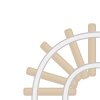
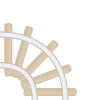
#90-Server-Client: Switch in Editor

Changed region(s): [[0.0, 0.21, 1.0, 0.96], [0.72, 0.93, 0.78, 0.96]]

diff --git a/RoRClient/Views/Editor/RailEditorUserControl.xaml b/RoRClient/Views/Editor/RailEditorUserControl.xaml
@@ -18,7 +18,15 @@
             Height="{Binding SquareDim, ElementName=railUserControl}">
         <Image Width="{Binding SquareDim, ElementName=railUserControl}" 
                Height="{Binding SquareDim, ElementName=railUserControl}" 
-               Source="{Binding Rail.RailSections, Mode=OneWay, Converter={StaticResource RailSectionsToImagePathConverter}, ConverterParameter=1}">
+               Source="{Binding Rail.RailSections, Mode=OneWay, Converter={StaticResource RailSectionsToImagePathConverter}, ConverterParameter=inactive}">
+            <Image.InputBindings>
+                <MouseBinding MouseAction="LeftClick" Command="{Binding CreatePlaceableOnRailCommand}"/>
+                <MouseBinding MouseAction="RightClick" Command="{Binding SelectInteractiveGameObjectCommand}"/>
+            </Image.InputBindings>
+        </Image>
+        <Image Width="{Binding SquareDim, ElementName=railUserControl}" 
+               Height="{Binding SquareDim, ElementName=railUserControl}" 
+               Source="{Binding Rail.RailSections, Mode=OneWay, Converter={StaticResource RailSectionsToImagePathConverter}, ConverterParameter=active}">
             <Image.InputBindings>
                 <MouseBinding MouseAction="LeftClick" Command="{Binding CreatePlaceableOnRailCommand}"/>
                 <MouseBinding MouseAction="RightClick" Command="{Binding SelectInteractiveGameObjectCommand}"/>

diff --git a/RoRClient/Views/Editor/Helper/ToolConverter.cs b/RoRClient/Views/Editor/Helper/ToolConverter.cs
@@ -54,8 +54,9 @@ namespace RoRClient.Views.Editor.Helper
         }
 
         /// <summary>
-        /// Erzeugt aus einem definierten Namen zwei Railsection mit jeweils zwei RailSectionPositions.  
-        /// Node1 ist jeweils mit node2 und node3 verknüpft und bildet so die Weiche
+        /// Erzeugt aus einem definierten Namen zwei Railsections mit jeweils zwei RailSectionPositions.  
+        /// Der sich wiederholende Node( node1, node3) bildet den Knotenpunkt beider Railsections und somit die Weiche.
+        /// Node1 und Node2 bilden die aktive Railsection der Weiche.
         /// </summary>
         /// <param name="toolName">Name des selectedTool</param>
         /// <returns>Railsection</returns>
@@ -64,6 +65,8 @@ namespace RoRClient.Views.Editor.Helper
             Compass node1;
             Compass node2;
             Compass node3;
+            Compass node4;
+
             List <RailSection> railSections = new List<RailSection>();
 
             switch (toolName)
@@ -71,27 +74,31 @@ namespace RoRClient.Views.Editor.Helper
                 case "switch_se_sn":
                     node1 = Compass.SOUTH;
                     node2 = Compass.NORTH;
-                    node3 = Compass.EAST;
+                    node3 = Compass.SOUTH;
+                    node4 = Compass.EAST;
                     break;
                 case "switch_sn_sw":
                     node1 = Compass.SOUTH;
                     node2 = Compass.NORTH;
-                    node3 = Compass.WEST;
+                    node3 = Compass.SOUTH;
+                    node4 = Compass.WEST;
                     break;
                 case "switch_se_sw":
                     node1 = Compass.SOUTH;
-                    node2 = Compass.EAST;
-                    node3 = Compass.WEST;
+                    node2 = Compass.WEST;
+                    node3 = Compass.SOUTH;
+                    node4 = Compass.EAST;
                     break;
                 default:
                     node1 = new Compass();
                     node2 = new Compass();
                     node3 = new Compass();
+                    node4 = new Compass();
                     break;
             }
 
             railSections.Add(new RailSection(Guid.NewGuid(), node1, node2));
-            railSections.Add(new RailSection(Guid.NewGuid(), node1, node3));
+            railSections.Add(new RailSection(Guid.NewGuid(), node3, node4));
 
             return railSections;
         }

diff --git a/RoRClient/ViewModels/Editor/MapEditorViewModel.cs b/RoRClient/ViewModels/Editor/MapEditorViewModel.cs
@@ -363,14 +363,14 @@ namespace RoRClient.ViewModels.Editor
         /// <summary>
         /// Command für Änderung der Weichenrichtung erstellen
         /// </summary>
-       /* private ICommand changeSwitchCommand;
-        public ICommand ChangeSwitchCommand
+       private ICommand changeSwitchCommand;
+       public ICommand ChangeSwitchCommand
         {
             get
             {
                 if (changeSwitchCommand == null)
                 {
-                    changeSwitchCommand = new ActionCommand(param => changeSwitch());
+                    changeSwitchCommand = new ActionCommand(param => ChangeSwitch());
                 }
                 return changeSwitchCommand;
             }
@@ -379,10 +379,11 @@ namespace RoRClient.ViewModels.Editor
         /// <summary>
         /// Wechseln der aktiven Schiene einer Weiche
         /// </summary>
-       /* private void changeSwitch()
+       private void ChangeSwitch()
         {
-            SelectedEditorCanvasViewModel.ChangeSwitch();
-        }*/
+            RailEditorViewModel railEditorViewModel = (RailEditorViewModel)SelectedEditorCanvasViewModel;
+            railEditorViewModel.ChangeSwitch();
+        }
 
         /// <summary>
         /// Command für Delete erstellen

diff --git a/RoRServer/src/main/java/models/game/Switch.java b/RoRServer/src/main/java/models/game/Switch.java
@@ -15,6 +15,18 @@ public class Switch extends Rail {
         }
     }
 
+    @Override
+    protected void createRailSectionsForRailSectionPositions(String sessionName, List<Compass> railSectionPositions) {
+        if (railSectionPositions.size() == 4) {
+            RailSection section1 = new RailSection(sessionName, this, railSectionPositions.get(0),
+                    railSectionPositions.get(1), RailSectionStatus.ACTIVE);
+            RailSection section2 = new RailSection(sessionName, this, railSectionPositions.get(2),
+                    railSectionPositions.get(3), RailSectionStatus.INACTIVE);
+            railSectionList.add(section1);
+            railSectionList.add(section2);
+        }
+    }
+
     public void changeSwitch() {
         for (RailSection section : railSectionList) {
             section.switchActitityStatus();

diff --git a/RoRClient/BindingConverter/RailSectionsToImagePathConverter.cs b/RoRClient/BindingConverter/RailSectionsToImagePathConverter.cs
@@ -29,7 +29,7 @@ namespace RoRClient.BindingConverter
 
                 List<String> directionsLis = railSection1.GetNodesAsSortedStringList();
 
-                if (param.Contains("1"))
+                if (param.Contains("inactive"))
                 {
 
                     if (railSections.Count == 2)
@@ -45,11 +45,11 @@ namespace RoRClient.BindingConverter
                     }
 
                 }
-                else if (param.Contains("2"))
+                else if (param.Contains("active"))
                 {
                     if (northSouth && eastWest)
                     {
-                        return IMAGE_FOLDER_PATH + "crossing.png";
+                        return IMAGE_FOLDER_PATH + "rail_crossing.png";
                     }
 
                     foreach (RailSection railSection in railSections)

diff --git a/RoRServer/src/main/java/commands/editor/CreateSwitchCommand.java b/RoRServer/src/main/java/commands/editor/CreateSwitchCommand.java
@@ -33,10 +33,11 @@ public class CreateSwitchCommand extends CommandBase {
             Compass node1 = Compass.valueOf(json.get("node1").getAsString());
             Compass node2 = Compass.valueOf(json.get("node2").getAsString());
             Compass node3 = Compass.valueOf(json.get("node3").getAsString());
+            Compass node4 = Compass.valueOf(json.get("node4").getAsString());
             railSectionPositions.add(node1);
             railSectionPositions.add(node2);
-            railSectionPositions.add(node1);
             railSectionPositions.add(node3);
+            railSectionPositions.add(node4);
         }
 
         Rail rail = new Switch(session.getDescription(), square, railSectionPositions);

diff --git a/RoRServer/src/main/java/models/game/Rail.java b/RoRServer/src/main/java/models/game/Rail.java
@@ -119,7 +119,7 @@ public class Rail extends InteractiveGameObject implements PlaceableOnSquare, Co
      * @param sessionName
      * @param railSectionPositions
      */
-    private void createRailSectionsForRailSectionPositions(String sessionName, List<Compass> railSectionPositions) {
+    protected void createRailSectionsForRailSectionPositions(String sessionName, List<Compass> railSectionPositions) {
         for (int i = 0; i < railSectionPositions.size(); i += 2) {
             RailSection section = new RailSection(sessionName, this, railSectionPositions.get(i),
                     railSectionPositions.get(i + 1), RailSectionStatus.ACTIVE);

diff --git a/RoRClient/ViewModels/Editor/SquareEditorViewModel.cs b/RoRClient/ViewModels/Editor/SquareEditorViewModel.cs
@@ -156,7 +156,9 @@ namespace RoRClient.ViewModels.Editor
             JObject railSectionObject = new JObject();
             railSectionObject.Add("node1", railSectionList[0].Node1.ToString());
             railSectionObject.Add("node2", railSectionList[0].Node2.ToString());
-            railSectionObject.Add("node3", railSectionList[1].Node2.ToString());
+            railSectionObject.Add("node3", railSectionList[1].Node1.ToString());
+            railSectionObject.Add("node4", railSectionList[1].Node2.ToString());
+
             railSections.Add(railSectionObject);
 
             messageInformation.PutValue("railSections", railSections);

diff --git a/RoRClient/Commands/Base/CreateRailCommandBase.cs b/RoRClient/Commands/Base/CreateRailCommandBase.cs
@@ -39,6 +39,7 @@ namespace RoRClient.Commands.Base
 				Compass node2 = (Compass)Enum.Parse(typeof(Compass), obj.GetValue("node2").ToString());
                 RailSectionStatus railSectionStatus = (RailSectionStatus)Enum.Parse(typeof(RailSectionStatus), obj.GetValue("railSectionStatus").ToString());
                 RailSection section = new RailSection(railSectionId, node1, node2, railSectionStatus);
+                Console.WriteLine("Status der Section ist " + section.Status);
                 railSections.Add(section);
             }
         }

diff --git a/RoRClient/ViewModels/Editor/CanvasEditorViewModel.cs b/RoRClient/ViewModels/Editor/CanvasEditorViewModel.cs
@@ -95,7 +95,7 @@ namespace RoRClient.ViewModels.Editor
         /// <summary>
         /// Methode zum Verschieben eines EditorCanvasViewModel / Muss in der jeweiligen Unterklasse überschrieben werden
         /// </summary>
-        public abstract void Move();    
+        public abstract void Move();
 
         /// <summary>
         /// Methode zum Löschen eines EditorCanvasViewModel / Muss in der jeweiligen Unterklasse überschrieben werden

diff --git a/RoRClient/ViewModels/Editor/RailEditorViewModel.cs b/RoRClient/ViewModels/Editor/RailEditorViewModel.cs
@@ -85,9 +85,6 @@ namespace RoRClient.ViewModels.Editor
             EditorSession.GetInstance().QueueSender.SendMessage("RotateRail", messageInformation);
         }
 
-        /// <summary>
-        ///  Move-Methode für alle PlaceableOnRail
-        /// </summary>
         public void ChangeSwitch()
         {
             MessageInformation messageInformation = new MessageInformation();

diff --git a/RoRClient/Models/Game/RailSection.cs b/RoRClient/Models/Game/RailSection.cs
@@ -75,6 +75,7 @@ namespace RoRClient.Models.Game
             List<String> directions = new List<String>();
             directions.Add(node1.ToString());
             directions.Add(node2.ToString());
+            Console.WriteLine("Nodes sorted:", node1.ToString(), node2.ToString());
             directions.Sort();
             return directions;
         }
